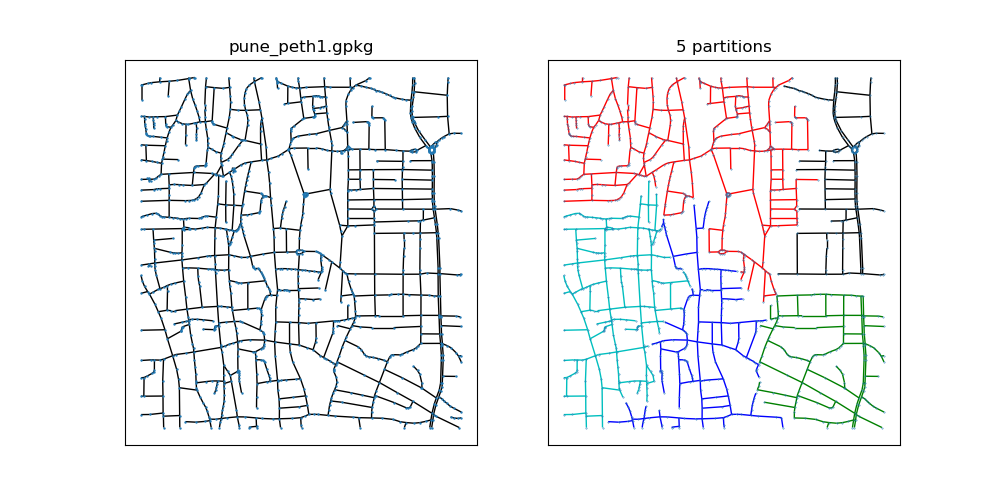
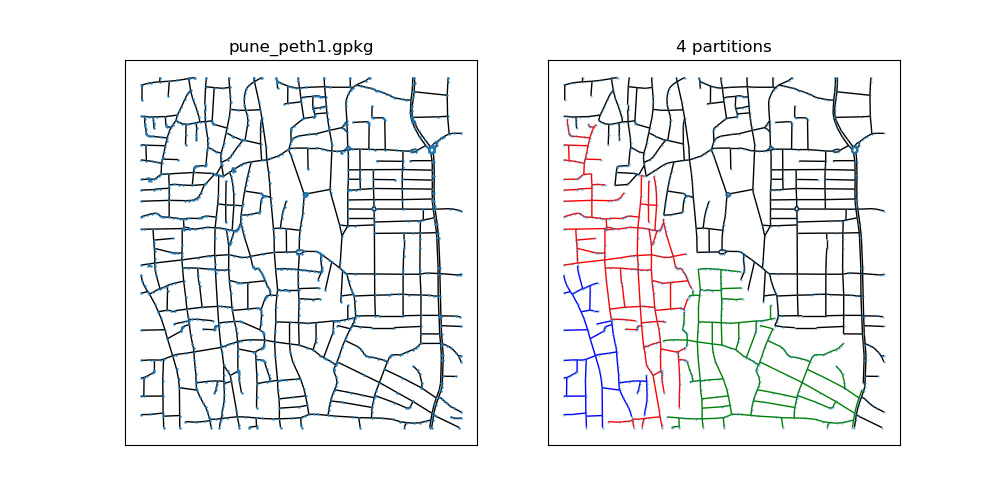
Working solution to maze problem.

Changed region(s): [[0.558, 0.15, 0.899, 0.87], [0.837, 0.81, 0.868, 0.84]]

diff --git a/MazeGenerator/maze.py b/MazeGenerator/maze.py
@@ -1,0 +1,171 @@
+__author__ = "Dilawar Singh"
+__email__ = "dilawar.s.rajput@gmail.com"
+
+import itertools
+import math
+import random
+from pathlib import Path
+import typing as T
+
+import networkx as nx
+import matplotlib.pyplot as plt
+
+
+def _possible_neighbours(node: T.Tuple[int, int], shape: T.Tuple[int, int]):
+    m, n = shape
+    _x, _y = node
+    res = []
+    # only horzontal or veritical paths are allowed.
+    for theta in [0, math.pi / 2, math.pi, -math.pi / 2]:
+        a, b = (_x + math.cos(theta), _y + math.sin(theta))
+        if a < 0 or a >= m or b < 0 or b >= n:
+            continue
+        res.append((int(a), int(b)))
+    return res
+
+
+def _perpendicular_line(p0, p1, length=1.0):
+    """Perpendicular line to (x, y)"""
+    (x0, y0), (x1, y1) = p0, p1
+    midx, midy = (x0 + x1) / 2, (y0 + y1) / 2
+    theta = math.atan2(y1 - y0, x1 - x0) + math.pi / 2.0
+    r = length / 2.0
+    q0 = midx - r * math.cos(theta), midy - r * math.sin(theta)
+    q1 = midx + r * math.cos(theta), midy + r * math.sin(theta)
+    return q0, q1
+
+
+def gen_seed_graph(m: int, n: int, is_perfect: bool = False):
+    """
+    Seed graph to generate the maze.
+    """
+    g = nx.Graph(shape=(m, n))
+    nodes = []
+    for i, j in itertools.product(range(m), range(n)):
+        g.add_node((i, j), pos=(i+1, j+1))
+        nodes.append((i, j))
+
+    source, target = (0, 0), (m - 1, n - 1)
+    g.nodes[source]["color"] = "red"
+    g.nodes[target]["color"] = "red"
+    while not nx.has_path(g, source, target):
+        # add a random edge from a node to one of its nearest neighbour
+        a = random.choice(nodes)
+        b = random.choice(_possible_neighbours(a, g.graph["shape"]))
+        g.add_edge(a, b)
+    return g
+
+
+def _draw_gragh(g, with_labels: bool = False, ax=None, **kwargs):
+    if ax is None:
+        return
+    pos = nx.get_node_attributes(g, "pos")
+    nx.draw(g, ax=ax, node_size=5, pos=pos, **kwargs)
+
+
+def _draw_lines(lines, ax=None):
+    if ax is None:
+        return
+    import matplotlib.pyplot as plt
+
+    for p0, p1 in lines:
+        xs, ys = zip(p0, p1)
+        ax.plot(xs, ys, lw=2, color="k")
+    ax.axis(False)
+
+
+def _to_maze(g):
+    """Now draw a maze from the graph.
+
+    Draw a line between two disconnected nodes. Thats it.
+    """
+    nrow, ncol = g.graph["shape"]
+    m, n = nrow - 1, ncol - 1
+    r = 0.5
+    lines = [
+        ((m + r, 0 - r), (0, 0 - r)),  # entry notch
+        ((m + r, n + r), (m + r, 0 - r)),
+        ((0 - r, m + r), (m, n + r)),  # exit notch
+        ((0 - r, 0 - r), (0 - r, m + r)),
+    ]
+    for a in g.nodes():
+        bs = _possible_neighbours(a, g.graph["shape"])
+        cs = list(g.neighbors(a))
+        nopath = set(bs) - set(cs)
+        for na in nopath:
+            lines.append(_perpendicular_line(a, na))
+    return lines
+
+
+def create_maze(shape: T.Tuple[int, int] = (10, 10), is_perfect: bool = False):
+    """Create maze of given shape."""
+    g = gen_seed_graph(*shape, is_perfect)
+    lines = _to_maze(g)
+    return g, lines
+
+
+def _find_all_solutions(g):
+    m, n = g.graph["shape"]
+    src, tgt = (0, 0), (m - 1, n - 1)
+    return list(nx.all_shortest_paths(g, src, tgt))
+
+
+def _find_a_solution(g):
+    m, n = g.graph["shape"]
+    src, tgt = (0, 0), (m - 1, n - 1)
+    return nx.shortest_path(g, src, tgt)
+
+
+def _draw_path(path, ax):
+    xs, ys = zip(*path)
+    ax.plot(xs, ys, alpha=0.5, color="blue")
+
+
+def main(args):
+    g, lines = create_maze(args.shape, is_perfect=args.perfect)
+    ax = plt.subplot(111)
+    _draw_lines(lines, ax=ax)
+
+    if args.show_solution:
+        # add solutions
+        _draw_path(_find_a_solution(g), ax=ax)
+
+    lines = [ f"{l[0][0]} {l[0][1]} {l[1][0]} {l[1][1]}" for l in lines]
+    if args.output is not None:
+        with open(args.output, 'w') as f:
+            for l in lines:
+                f.write(l)
+
+    if args.plot is not None:
+        print(f"[+] Maze is saved to {args.plot}")
+        plt.savefig(str(args.plot))
+    else:
+        plt.show()
+
+
+if __name__ == "__main__":
+    import argparse
+
+    parser = argparse.ArgumentParser(description="Create maze")
+    parser.add_argument(
+        "-s",
+        "--shape",
+        type=tuple,
+        default=(10, 10),
+        help="Gridsize of the maze.",
+    )
+    parser.add_argument("--perfect", action="store_false", help="Perfect maze?")
+    parser.add_argument(
+        "-o", "--output", type=Path, help="Save maze (as lines) to this path."
+    )
+    parser.add_argument(
+        "-p", "--plot", type=Path, help="Save maze (as image) to this path."
+    )
+    parser.add_argument(
+        "-X",
+        "--show-solution",
+        action="store_true",
+        help="If true, draw solution as well. Requires --plot to be set.",
+    )
+    args = parser.parse_args()
+    main(args)

diff --git a/Routing/DATAMEET_ROUTING/main.py b/Routing/DATAMEET_ROUTING/main.py
@@ -41,6 +41,9 @@ def main():
 
     plt.figure(figsize=(10, 5))
     infile = Path(sys.argv[1])
+    k = int(sys.argv[2])
+    print('[INFO] Partitioning {infile} in {k} partitions')
+
     pklfile = Path(f"{infile}.g.pkl")
     if pklfile.exists():
         g = nx.read_gpickle(pklfile)
@@ -76,7 +79,6 @@ def main():
     cc = max(nx.connected_components(g), key=len)
     lG = g.subgraph(list(cc))
 
-    k = 5
     assert nx.is_connected(lG), "Required connected graph"
     C = nx.algorithms.community.asyn_fluid.asyn_fluidc(lG, k=k, max_iter=3000)
     C = list(C)

diff --git a/MazeGenerator/example.py b/MazeGenerator/example.py
@@ -1,0 +1,11 @@
+__author__           = "Dilawar Singh"
+__email__            = "dilawar.s.rajput@gmail.com"
+
+import maze
+
+def test_sanity():
+    a = maze.maze(10, 10)
+    print(a)
+
+if __name__ == "__main__":
+    test_sanity()
